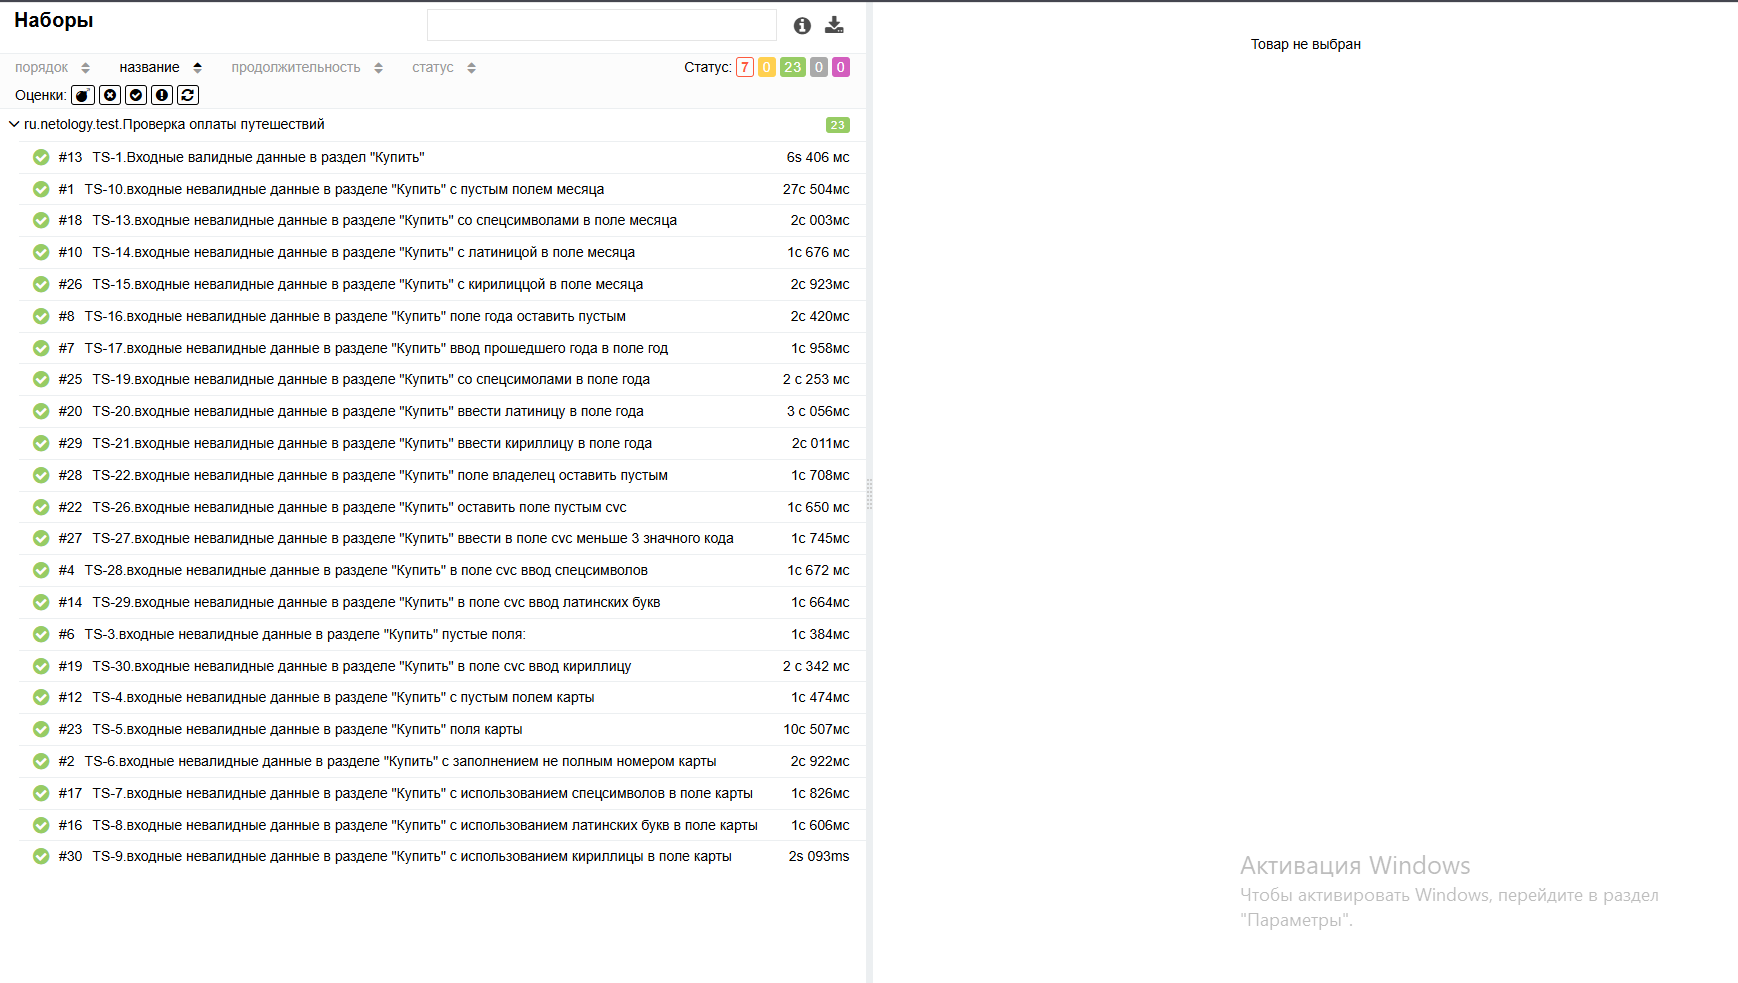
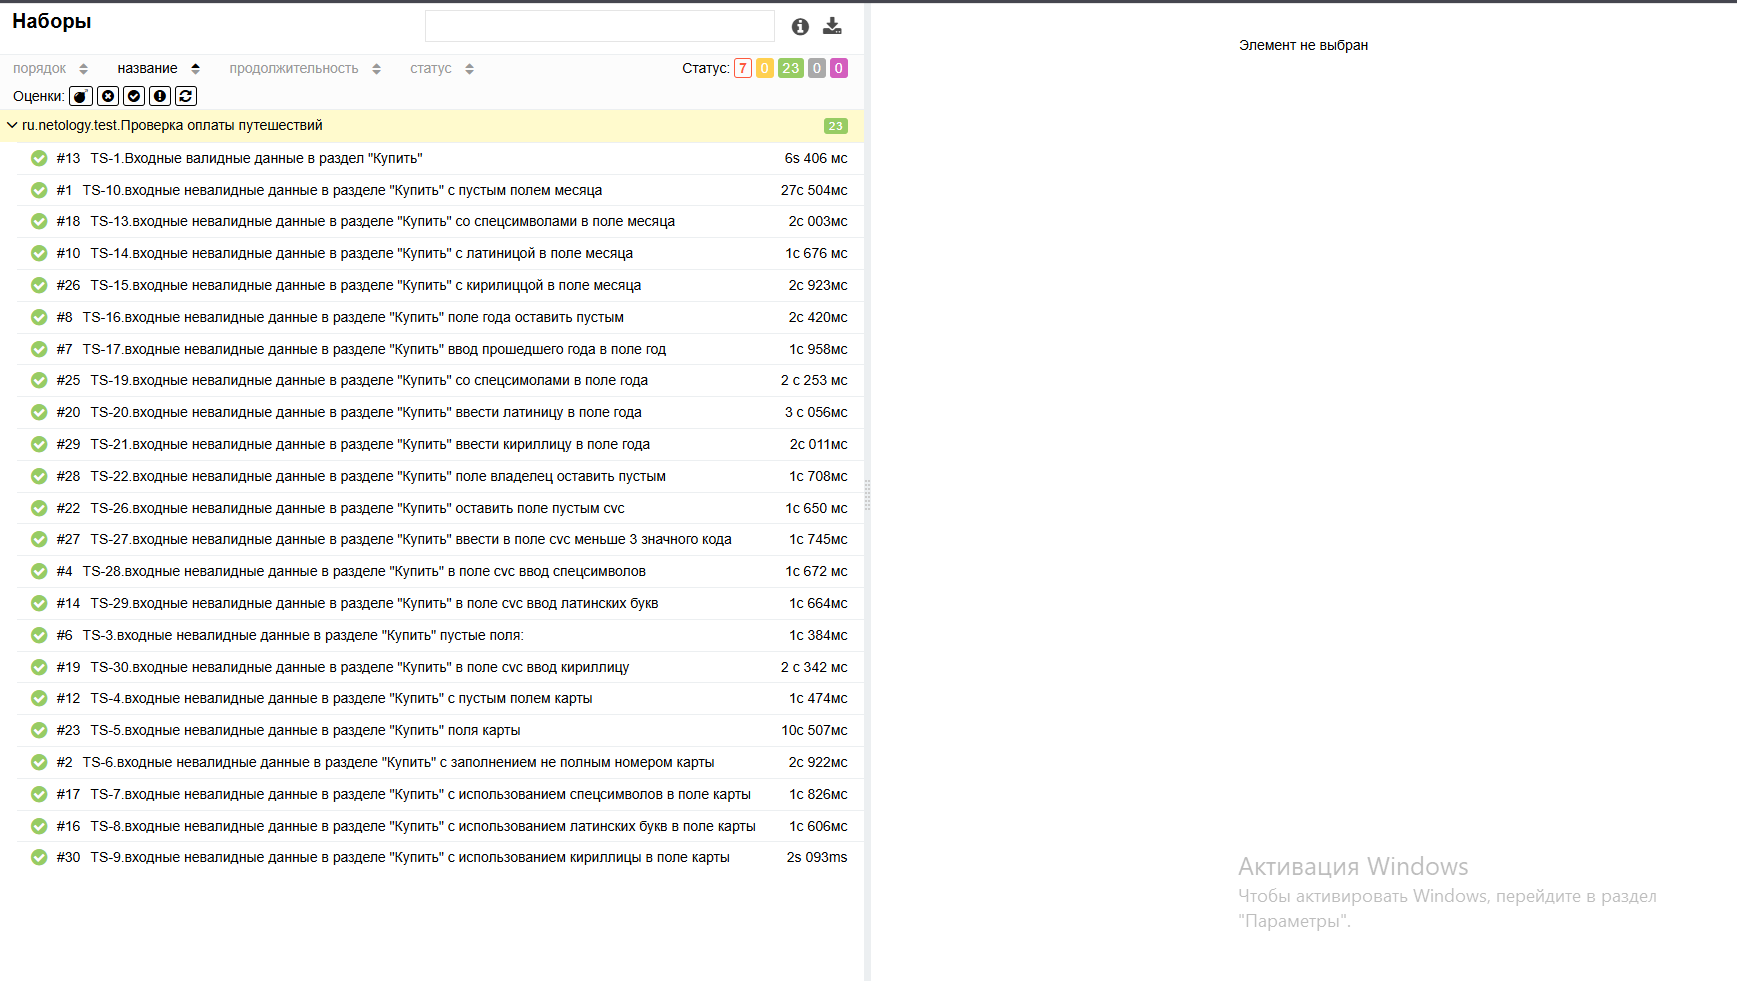
first commit

diff --git a/README.md b/README.md
@@ -1,0 +1,29 @@
+# Курсовой проект по модулю «Автоматизация тестирования» для профессии «Инженер по тестированию»
+
+Настоящий курсовой проект выполнен в соответствии с [заданием](https://github.com/netology-code/aqa-qamid-diplom).
+
+Целью проекта является автоматизирование тестирования позитивных и негативных сценариев покупки тура на основании [плана](https://github.com/Nikita4651/Coursework/blob/main/docs/Plan.md).
+
+По результатам проекта составлена отчётная документация:
+1. [отчёт о тестировании](https://github.com/cedric-ko/qamid-diplom/blob/main/docs/Report.md),
+2. [отчёт об автоматизации](https://github.com/cedric-ko/qamid-diplom/blob/main/docs/Summary.md).
+
+## Начало работы
+Перед работой с проектом следует ознакомиться с перечнем необходимых инструментов (см. п. 2 [Плана](https://github.com/cedric-ko/qamid-diplom/blob/main/docs/Plan.md)), установить на компьютере (убедиться в наличии и актуальности) необходимого ПО.
+## Запуск проекта
+1. Клонировать репозиторий, расположенный по адресу: https://github.com/cedric-ko/qamid-diplom (команда в терминале  `git clone git@github.com:cedric-ko/qamid-diplom.git`).
+2. Открыть клонированный проект в IDE, например, в IntelliJ IDEA.
+3. Запустить приложение Запустить Docker Desktop.
+4. В терминале IDE запустить конетейнер командой `docker compose up`, дождаться загрузки контейнера (сообщение `ready for connections`).
+5. Открыть новый терминал и запустить приложение командой `java -jar artifacts/aqa-shop.jar`, дождаться загрузки приложения (сообщение `Started ShopApplication`).
+6. Открыть в браузере страницу приложения по адресу: http://localhost:8080/.
+7. В приложении DBeaver создать новую базу данных с настройками, расположенными в файле `application.properties` в корне проекта.
+
+## Работа с автотестами
+1. Открыть новый терминал в IDE, запустить тесты командой `./gradlew clean test`.
+2. По завершении прогона тестов запустить создание отчёта Allure командой в том же терминале `.\gradlew allureServe` (по завершению формирования отчёта он откроется в браузере по умолчанию).
+
+## Завершение работы с проектом
+1. Остановить работу приложения в терминале, где оно было запущено, командой `Ctrl + C`.
+2. Остановить работу докера в терминале, где он был запущен, командой `Ctrl + C`, после остановки докера удалить контейнер командой в терминале `docker compose down`.
+3. Закрыть приложения (IDE, браузер, DBeaver, Docker Desktop).

diff --git a/docs/Summary.md b/docs/Summary.md
@@ -1,0 +1,27 @@
+# Отчёт по итогам автоматизации
+
+##  Было запланировано и фактически реализовано:
+* составление тестовых сценариев - составлено 30 тест-кейсов;
+* ava + Selenide (Page Object), JUnit5, Gradle. 
+Faker—для тестовых данных (с seed‑значениями). Отчёты—Allure (скриншоты только при падениях). 
+JDBC‑проверки—кейсов . 
+Инфраструктура—Docker/Docker Compose с очисткой перед прогоном. 
+Воспроизводимость—Git и README с инструкцией* составление баг-репортов по обнаруженным дефектам - 7 репортов;
+* автоматизация тесторования - выполнено;
+
+
+
+
+## Сработавшие риски
+При оценке времени на написание 28–32 тестов я заложил буфер 30%, потому что значительная часть работы — это не просто “написать шаги”, а отладить сам тест:
+разобраться в стектрейсе, понять, почему элемент не находится, почему падает парсинг строки или не проходит проверка в БД.
+
+Для меня как для обучающегося это важная часть: научиться читать ошибки и быстро их исправлять. 
+Поэтому 30% — это время на отладку и наработку устойчивых решений, чтобы следующие тесты писались быстрее.
+Так же в силу своей неопытности я не уложился во временные рамки.
+## Общий итог по времени
+Планировалось временных затрат: 13 дней
+
+Фактически затрачено: 15 дней .
+
+Обоснование расхождение: отсутствие релевантного опыта.

diff --git a/docs/Report.md b/docs/Report.md
@@ -3,8 +3,11 @@
 
 ## Краткое описание
 Проведено автоматизированное тестирование модуля оплаты при покупке тура.
+Тестирование осуществлялоь на основании [технического задания](https://github.com/netology-code/aqa-qamid-diplom),
+разработанного на его основе [плана автоматизации тестирования](https://github.com/Nikita4651/Coursework/blob/main/docs/Plan.md),
+включало ручное прохождение тестовых сценариев, автоматизированное тестирование
 Набор тестов включает в себя 30 сценариев, реализованных на JUnit 5.
-Проверены позитивные сценарии интеграции с СУБД (карты APPROVED/DECLINED),
+Проверены позитивные и негативные сценарии интеграции с СУБД (карты APPROVED/DECLINED),
 а также валидация условий и всех форматов полей (номер карты, дата, год, имя владельца,  CVC, пустые значения).
 Выявлены критические баги, при которых логика и валидация интерфейса работают некорректно.
 
@@ -12,6 +15,14 @@
 * **1. Всего тест-кейсов**: 30
 * **2. Успешные результаты**: 23 (76,66%)
 * **3. Неудовлетворительные результаты**: 7 (23,33%)
+* **4. По всем выявленным дефектам составленo**: 7 [баг-репорты]()
+1. Gradle
+![Test Summary.png](Test%20Summary.png) 
+
+2. Allure
+![Allure-30.png](Allure-30.png)
+![Allure-23-Ok.png](Allure-23-Ok.png)
+![Allure-7-Error.png](Allure-7-Error.png)
 
 ## Протестированные сценарии
 ## Статус этапа PL-01
